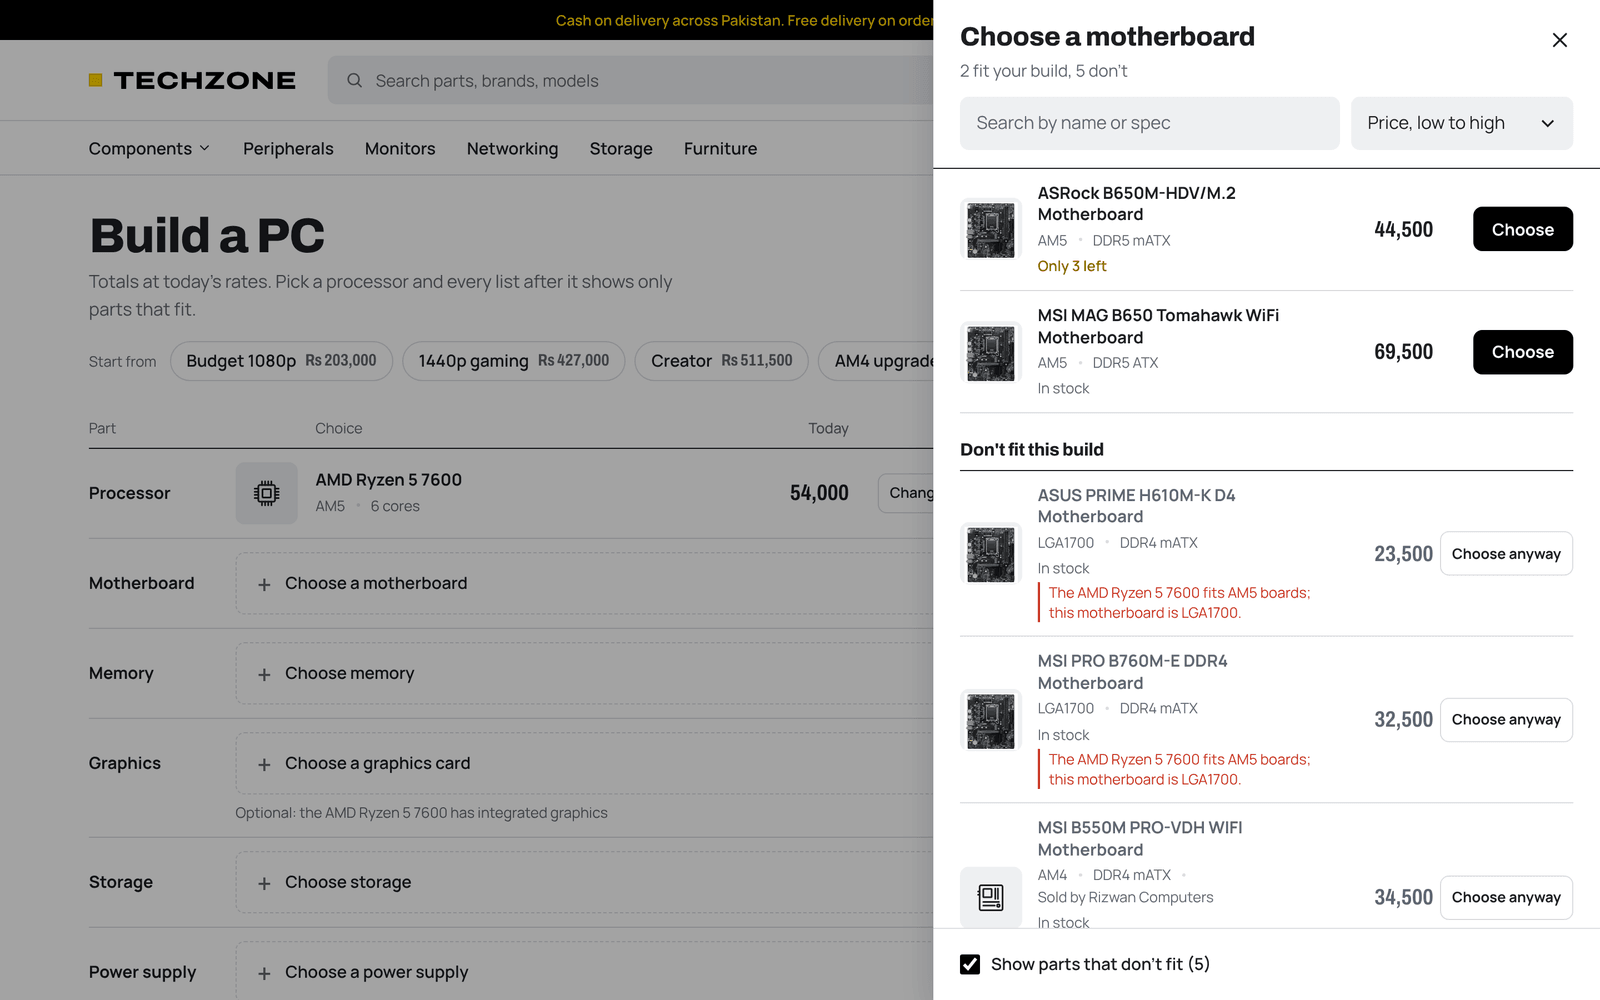
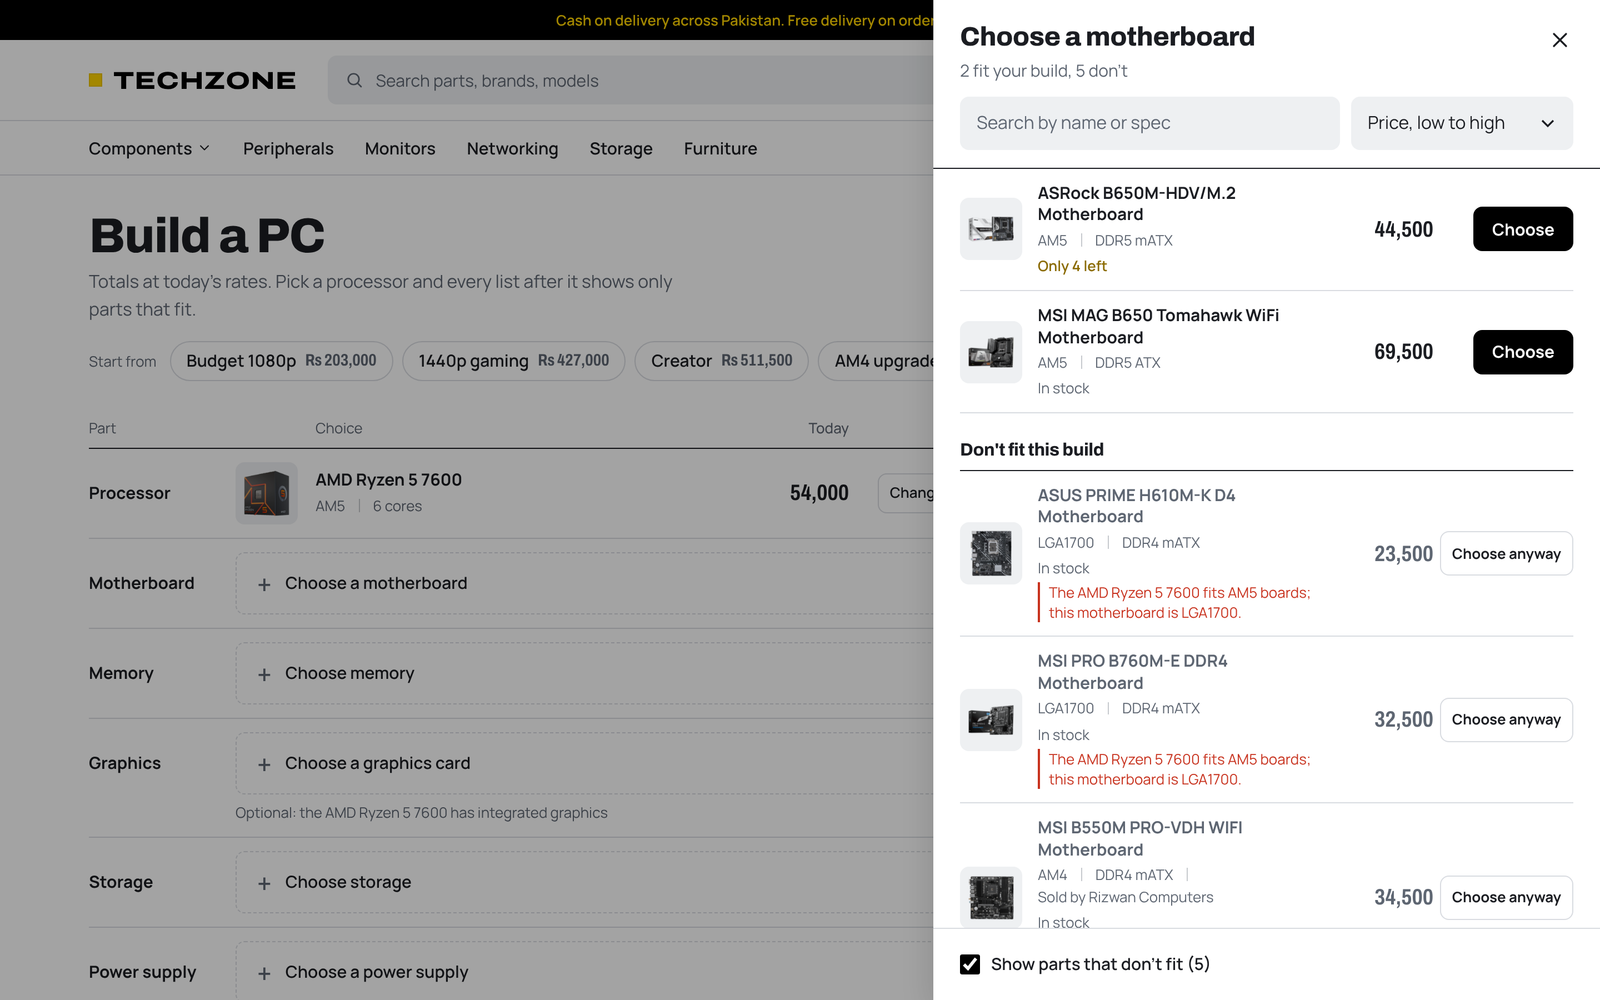
Real product photos for the whole catalogue
All 67 products now have a manufacturer or retailer product shot instead of
a placeholder or spec tile. The photos are normalised to 1000x1000 WebP on
white with an 8% margin (38 MB of mixed PNGs down to 3.2 MB) and render with
mix-blend-mode: multiply, so the white drops into the concrete image wells.

- products.imagelink now points at uploads/catalog/NN-name.webp in the seed,
  so the admin grid, inventory and order pages show the same photo as the
  storefront.
- migrate.php links catalogue photos to existing databases; it only replaces
  an empty image or one of the v1 placeholder screenshots, never a photo
  uploaded in the admin.
- product_image_url() now prefers imagelink (so a photo replaced in the
  admin shows on the storefront) and falls back to the catalog folder,
  then the spec tile.
- README gallery re-shot with the photos; product count corrected to 67.

Claude-Session: https://claude.ai/code/session_01JqkC5cwcFMZ9kEKPSYY6hM

diff --git a/MarketingSite/assets/css/pages.css b/MarketingSite/assets/css/pages.css
@@ -102,7 +102,7 @@ select.field__input { appearance: none; padding-right: 40px; background-image: u
 .bld-slot:first-child.is-empty .bld-slot__choose { border-style: solid; border-color: var(--graphite); }
 .bld-slot__note { grid-column: 2 / -1; margin-top: 6px; font-size: var(--type-13); color: var(--steel); }
 .bld-thumb { position: relative; display: grid; place-items: center; width: 56px; height: 56px; border-radius: var(--radius-control); background: var(--concrete); overflow: hidden; color: var(--graphite); }
-.bld-thumb img { width: 100%; height: 100%; object-fit: contain; padding: 4px; }
+.bld-thumb img { width: 100%; height: 100%; object-fit: contain; padding: 4px; mix-blend-mode: multiply; }
 .bld-thumb--tile .spec-glyph { width: 30px; height: 30px; }
 .bld-slot__part { min-width: 0; display: flex; flex-direction: column; gap: 3px; }
 .bld-slot__name { font-weight: 700; font-size: var(--type-15); line-height: 1.3; color: var(--graphite); text-decoration: none; overflow: hidden; text-overflow: ellipsis; white-space: nowrap; }
@@ -393,7 +393,7 @@ select.field__input { appearance: none; padding-right: 40px; background-image: u
 .cmp-corner { border-bottom: 1.5px solid var(--graphite); }
 .cmp-prod { vertical-align: top; padding: 0 0 16px 20px; border-bottom: 1.5px solid var(--graphite); text-align: left; font-weight: 400; }
 .cmp-prod__media { position: relative; display: block; aspect-ratio: 1 / 1; max-width: 220px; margin-bottom: 12px; border-radius: var(--radius-card); background: var(--concrete); overflow: hidden; }
-.cmp-prod__media img { position: absolute; inset: 0; width: 100%; height: 100%; object-fit: contain; padding: 16px; }
+.cmp-prod__media img { position: absolute; inset: 0; width: 100%; height: 100%; object-fit: contain; padding: 16px; mix-blend-mode: multiply; }
 .cmp-prod__name { display: block; font-weight: 700; font-size: var(--type-16); line-height: 1.3; color: var(--graphite); text-decoration: none; }
 .cmp-prod__name:hover { text-decoration: underline; text-underline-offset: 3px; color: var(--graphite); }
 .cmp-prod__remove { display: inline-block; margin-top: 6px; font-size: var(--type-13); color: var(--steel); }
@@ -688,7 +688,7 @@ body:has(#compare) #compareBar { display: none !important; }
 .cart-items { list-style: none; margin: 0; padding: 0; border-top: 1.5px solid var(--graphite); }
 .cart-item { display: grid; grid-template-columns: 112px minmax(0, 1fr) auto 120px; gap: 8px 24px; align-items: start; padding: 20px 0; border-bottom: 1px solid var(--line); }
 .cart-item__media { position: relative; display: block; width: 112px; height: 112px; border-radius: var(--radius-card); background: var(--concrete); overflow: hidden; }
-.cart-item__media img { position: absolute; inset: 0; width: 100%; height: 100%; object-fit: contain; padding: 10px; }
+.cart-item__media img { position: absolute; inset: 0; width: 100%; height: 100%; object-fit: contain; padding: 10px; mix-blend-mode: multiply; }
 .cart-item__media .spec-tile .spec-glyph { width: 44px; }
 .cart-item__info { min-width: 0; padding-top: 2px; }
 .cart-item__name { display: block; font-weight: 700; font-size: var(--type-16); line-height: 1.35; color: var(--graphite); text-decoration: none; }
@@ -838,7 +838,7 @@ body:has(#compare) #compareBar { display: none !important; }
 .acct-items { list-style: none; margin: 12px 0 0; padding: 0; border-top: 1.5px solid var(--graphite); }
 .acct-item { display: grid; grid-template-columns: 64px minmax(0, 1fr) auto; gap: 16px; align-items: center; padding: 12px 0; border-bottom: 1px solid var(--line); }
 .acct-item__media { position: relative; display: block; width: 64px; height: 64px; border-radius: var(--radius-control); background: var(--concrete); overflow: hidden; }
-.acct-item__media img { width: 100%; height: 100%; object-fit: contain; padding: 6px; }
+.acct-item__media img { width: 100%; height: 100%; object-fit: contain; padding: 6px; mix-blend-mode: multiply; }
 .acct-item__name { display: block; font-weight: 700; color: var(--graphite); text-decoration: none; }
 .acct-item__name:hover { text-decoration: underline; color: var(--graphite); }
 .acct-item__meta { font-size: var(--type-13); color: var(--steel); }

diff --git a/MarketingSite/includes/format.php b/MarketingSite/includes/format.php
@@ -404,9 +404,9 @@ if (!function_exists('remember_recently_viewed')) {
 if (!function_exists('product_image_url')) {
     /**
      * Web URL of a product's photo, or null when it has none (render a spec tile instead).
-     * Order: AdminPortal/uploads/catalog/{id:02d}-*.{png,jpg,jpeg,webp} (first match by file name, so
-     * the owner can drop photos in without touching the database) → products.imagelink → null.
-     * The catalog folder is listed once per request.
+     * Order: products.imagelink (what the admin shows and replaces; skipped when a local file is
+     * missing) → AdminPortal/uploads/catalog/{id:02d}-*.{png,jpg,jpeg,webp} (a photo dropped in before
+     * `php database/migrate.php` links it) → null. The catalog folder is listed once per request.
      *
      * @param array $p product row with 'id' (or 'product_id') and optionally 'imagelink'
      */
@@ -424,20 +424,30 @@ if (!function_exists('product_image_url')) {
                 }
             }
         }
+        // 1. the product's own image (what the admin shows and replaces), when it exists
+        $link = trim(str_replace('\\', '/', (string) ($p['imagelink'] ?? '')));
+        if ($link !== '' && preg_match('#^https?://#i', $link)) {
+            return $link;
+        }
+        if ($link !== '') {
+            $rel = ltrim($link, '/');
+            $pos = strpos($rel, 'uploads/');
+            if ($pos === false) {
+                return $link;
+            }
+            $rel = substr($rel, $pos);
+            $root = function_exists('admin_portal_filesystem_root') ? admin_portal_filesystem_root() : '';
+            if ($root === '' || is_file($root . '/' . $rel)) {
+                return admin_portal_asset_url(implode('/', array_map('rawurlencode', explode('/', $rel))));
+            }
+        }
+        // 2. a catalogue photo dropped into uploads/catalog/NN-*.webp before the DB was migrated
         $id = (int) ($p['id'] ?? $p['product_id'] ?? 0);
         if ($id > 0 && isset($catalog[$id])) {
             return admin_portal_asset_url('uploads/catalog/' . rawurlencode($catalog[$id]));
         }
-        $link = trim(str_replace('\\', '/', (string) ($p['imagelink'] ?? '')));
-        if ($link === '') {
-            return null;
-        }
-        if (preg_match('#^https?://#i', $link)) {
-            return $link;
-        }
-        $rel = ltrim($link, '/');
-        $pos = strpos($rel, 'uploads/');
-        return $pos === false ? $link : admin_portal_asset_url(substr($rel, $pos));
+        // 3. none: the caller renders the spec tile
+        return null;
     }
 }
 

diff --git a/database/migrate.php b/database/migrate.php
@@ -187,6 +187,30 @@ if ($n > 0) {
     say("price_history: $n opening point(s)");
 }
 
+// Catalogue photos: AdminPortal/uploads/catalog/NN-name.{webp,png,jpg} is the photo of product NN.
+// A product gets it only when it has no image yet or still points at one of the v1 placeholder
+// screenshots; a photo someone uploaded in the admin is never overwritten.
+$legacy = [
+    'uploads/695d7e54382e4_mouse.png', 'uploads/695e02d88682a_keyboard.png', 'uploads/695e07b640c78_headphones.png',
+    'uploads/695e07fd24255_monitor.png', 'uploads/695e082da3b60_desk.png', 'uploads/695e0869cb62e_Screenshot_2026-01-07_020804.png',
+    'uploads/695e08dbaed9c_Screenshot_2026-01-07_121813.png', 'uploads/695e097ba5fe3_Screenshot_2026-01-07_122012.png',
+    'uploads/695e09df646a2_Screenshot_2026-01-07_122229.png', 'uploads/69bf29110ebb4_695e08dbaed9c_Screenshot_2026-01-07_121813.png',
+];
+$catalogDir = __DIR__ . '/../AdminPortal/uploads/catalog';
+$photos = 0;
+$fill = $conn->prepare('UPDATE products SET imagelink = ? WHERE id = ? AND (imagelink IS NULL OR imagelink = \'\' OR imagelink IN ('
+    . implode(', ', array_fill(0, count($legacy), '?')) . '))');
+foreach (is_dir($catalogDir) ? (scandir($catalogDir) ?: []) : [] as $f) {
+    if (preg_match('/^(\d{2,})-[A-Za-z0-9._-]+\.(webp|png|jpe?g)$/i', $f, $m)) {
+        $fill->execute(array_merge(['uploads/catalog/' . $f, (int) $m[1]], $legacy));
+        $photos += $fill->rowCount();
+    }
+}
+if ($photos > 0) {
+    $changes++;
+    say("products.imagelink: $photos product(s) now use their catalogue photo");
+}
+
 // COD orders are paid when the courier delivers them; that rule is already covered by
 // "Delivered -> paid" above. Cancelled orders keep payment 'pending' (nothing was collected).
 

diff --git a/README.md b/README.md
@@ -72,7 +72,7 @@ Full home page: [docs/screenshots/02-home-full.png](docs/screenshots/02-home-ful
 **Storefront** (`MarketingSite/`) — design contract in [`docs/STOREFRONT.md`](docs/STOREFRONT.md)
 - **Today's rates** — a live board of the most-watched parts with the change since last week; every product keeps a weekly price history shown as a sparkline with its 12-week low and high. "Price drops this week" is a page of its own.
 - **PC builder** — processor → motherboard → memory → graphics → storage → power → case → cooler. Compatibility rules (socket, memory type, form factor, GPU length, cooler clearance and TDP, power draw with a recommended PSU) live in `core/builder.php`; the UI only offers parts that fit, explains the ones that don't, totals the build at today's rates, and adds all parts to the cart in one request. Builds live in the URL, so they can be shared.
-- **Catalogue** — category tree, attribute facets per category (socket, cores, VRAM, memory type, panel size…) with counts, seller filter, sort by biggest drop. Products without a photo get a deliberate spec tile; dropping a photo into `AdminPortal/uploads/catalog/` replaces it without touching the database.
+- **Catalogue** — category tree, attribute facets per category (socket, cores, VRAM, memory type, panel size…) with counts, seller filter, sort by biggest drop. Every product has a real photo (1000×1000 WebP, ~45 KB each); a product added without one gets a deliberate spec tile instead of a broken image.
 - **Product pages** — rate history, bank installment plans, the seller with an "Ask on WhatsApp" link, wishlist and compare, back-in-stock alerts, specifications, and compatibility hints for components ("Fits AM5 boards: 3 in stock").
 - **Marketplace** — "Sold by …" on every product, seller directory and pages, and a Sell on TechZone programme with an application form.
 - **Orders** — cart with free-delivery progress, checkout priced by shipping zone, promo codes (percent, fixed, free shipping, scoped to a category or product), cash on delivery or JazzCash, a 4-step tracker on the customer's order page and a public Track your order page.
@@ -170,7 +170,7 @@ Then open `http://localhost:8080/MarketingSite/` or `/AdminPortal/`.
 | Admin | `admin@techzone.pk` | `Admin@1234` |
 | Customer | `ali.raza@example.pk` | `Customer@123` |
 
-The seed contains 12 customers (all with the customer password above), 75 products (35 of them PC-builder parts with full compatibility attributes), 12 weekly rate points per product, four sellers (TechZone plus three partner shops), 45 orders and four promotions (`TECH10`, `WELCOME1000`, `FREESHIP`, and `SUMMER15`, which has ended). **Prices are demo data**: plausible Lahore market rates for November 2026, not live quotes. Product photos for the new parts go in `AdminPortal/uploads/catalog/` as `NN-anything.png|jpg|webp` (NN = product id); until then the storefront shows a spec tile. Change these credentials before exposing the app anywhere.
+The seed contains 12 customers (all with the customer password above), 75 products (35 of them PC-builder parts with full compatibility attributes), 12 weekly rate points per product, four sellers (TechZone plus three partner shops), 45 orders and four promotions (`TECH10`, `WELCOME1000`, `FREESHIP`, and `SUMMER15`, which has ended). **Prices are demo data**: plausible Lahore market rates for November 2026, not live quotes. Product photos live in `AdminPortal/uploads/catalog/` as `NN-name.webp` (NN = product id); `migrate.php` links a newly dropped photo to its product without overwriting one uploaded in the admin. Photos are manufacturer and retailer product shots used for demonstration only; the brands belong to their owners. Change these credentials before exposing the app anywhere.
 
 ### Configuration
 
@@ -214,7 +214,7 @@ There is no unit-test suite yet. [`.github/workflows/ci.yml`](.github/workflows/
 - [ ] Customer logout (`auth/logout.php`) is a GET, so a cross-site link can sign a customer out (no data change).
 - [ ] The CSP is report-only until the inline scripts move to files or nonces.
 - [ ] `CSRF_STRICT` defaults to `0` in code; set it to `1` (as `.env.example` does) for any real deployment.
-- [ ] Products have a single image, and many catalogue parts still use the spec tile until real photos are added.
+- [ ] Products have a single image; a gallery with several angles per product is not built yet.
 - [ ] Prices and price history are demo data.
 - [ ] Payouts are statements only; no money is moved.
 - [ ] Deploy a demo with seeded data.

diff --git a/docs/STOREFRONT.md b/docs/STOREFRONT.md
@@ -38,7 +38,7 @@ Rules: yellow is never a gradient, never a tint, never a background for body cop
 
 **Motion** — exactly one orchestrated moment: on home load the rate-board figures tick from last week's price to today's (600 ms, 40 ms stagger, ease-out). Everything else moves only in response to the user (hover, open, add to cart confirmation). `prefers-reduced-motion`: no tick.
 
-**Imagery** — product photos on `--concrete` wells, `object-fit: contain`, 24px inset, never cropped. Products without a photo render a **spec tile**: concrete well, a 64px outlined category glyph (inline SVG, 1.5px stroke, graphite), and the model name in Archivo condensed 600 — deliberate, not broken. `product_image_url($product)` resolves in this order: `AdminPortal/uploads/catalog/{id:02d}-*.{png,jpg,webp}` (first match, so the owner can drop photos in without touching the DB) → `products.imagelink` → spec tile.
+**Imagery** — product photos on `--concrete` wells, `object-fit: contain`, 24px inset, never cropped. Catalogue photos are 1000×1000 WebP on white with an 8% margin, rendered with `mix-blend-mode: multiply` so the white drops into the well. Products without a photo render a **spec tile**: concrete well, a 64px outlined category glyph (inline SVG, 1.5px stroke, graphite), and the model name in Archivo condensed 600 — deliberate, not broken. `product_image_url($product)` resolves in this order: `products.imagelink` (the image the admin shows and replaces; skipped if the file is missing) → `AdminPortal/uploads/catalog/{id:02d}-*.{png,jpg,webp}` (a photo dropped in before `migrate.php` links it to the product) → spec tile.
 
 ## Information architecture
 

diff --git a/docs/storefront-components.md b/docs/storefront-components.md
@@ -43,7 +43,7 @@ Archivo is self-hosted as one variable woff2 with both axes (`assets/fonts/archi
 
 | Helper | Returns | Example |
 |---|---|---|
-| `product_image_url(array $p): ?string` | `uploads/catalog/{id:02d}-*` → `imagelink` → null | `$src = product_image_url($p);` |
+| `product_image_url(array $p): ?string` | `imagelink` (if the file exists) → `uploads/catalog/{id:02d}-*` → null | `$src = product_image_url($p);` |
 | `render_product_media(array $p, array $opts)` | `<img>` (lazy, width/height) or spec tile | `<?= render_product_media($p, ['width' => 600]) ?>` |
 | `render_spec_tile(array $p, string $size)` | concrete well + glyph + model name (`'md'`/`'sm'`) | `<?= render_spec_tile($p, 'sm') ?>` |
 | `spec_glyph(string $type, int $size)` | outlined SVG glyph (cpu … storage, generic) | `<?= spec_glyph('gpu', 32) ?>` |
